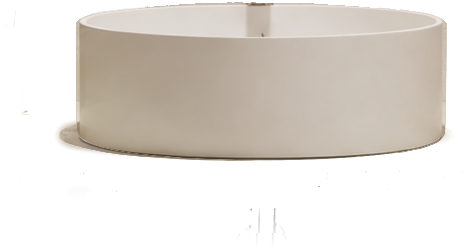
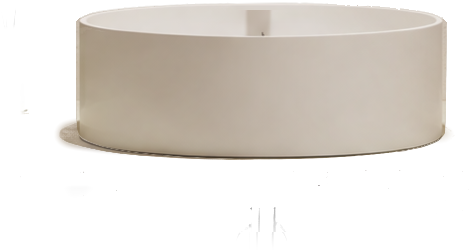
demo2: čistý lem umývadla za batériou
Hrana misy sa meria aj v pásiku za batériou; stĺpce s batériou sa
dopočítajú vo výške a ich lem (farba aj vyhladenie) sa prevezme zo
susedov. Predtým mala Savoy za batériou o 3 px vyšší okraj s pásom
steny a schodíkom a pri päte starej batérie polopriesvitný lem.

diff --git a/demo2/index.html b/demo2/index.html
@@ -124,7 +124,7 @@
   </section>
 </div>
 
-<script>/*DATA*/window.KUPELNA = {"sirka":3312,"vyska":2484,"povodny":"img/povodny.jpg","model":"gpt-image-2.5-sunburst","rozlisenie":"4K","kategorie":[{"id":"obklad","nazov":"Obklad stien","typ":"podklad","z":0,"moznosti":[{"id":"povodny","nazov":"Pôvodný obklad","kratko":"Pôvodný obklad","detail":"Svetlý kameň · podľa vizualizácie ST1","nahlad":"../demo/img/nahlad-obklad-povodny.jpg"},{"id":"obklad-calacatta","nazov":"Florim I CLASSICI Calacatta Gold","kratko":"Calacatta Gold","detail":"Florim I Classici · gres 1200 × 2400 mm","nahlad":"../demo/img/ref-obklad-calacatta-0.jpg","obrazok":"img/obklad-calacatta.jpg"},{"id":"obklad-graphit","nazov":"Florim STONE LIFE Graphit","kratko":"Stone Life Graphit","detail":"Florim Stone Life · gres 1200 × 2400 mm","nahlad":"../demo/img/ref-obklad-graphit-0.jpg","obrazok":"img/obklad-graphit.jpg"},{"id":"obklad-travertine","nazov":"Florim AUTHENTIC LUXE Gold Travertine","kratko":"Gold Travertine","detail":"Florim Authentic Luxe · gres 1200 × 2400 mm","nahlad":"../demo/img/ref-obklad-travertine-0.jpg","obrazok":"img/obklad-travertine.jpg"}]},{"id":"dlazba","nazov":"Dlažba","typ":"plocha","z":1,"moznosti":[{"id":"povodny","nazov":"Pôvodná dlažba","kratko":"Pôvodná dlažba","detail":"Svetlý kameň · podľa vizualizácie ST1","nahlad":"../demo/img/nahlad-dlazba-povodny.jpg","vrstvy":{"*":[{"src":"../demo/img/dlazba-povodny-0.png","x":104,"y":2133,"w":2214,"h":351}]}},{"id":"dlazba-graphite","nazov":"Florim STONE LIFE Graphite 600x600","kratko":"Stone Life Graphite","detail":"Florim Stone Life · mat 600 × 600 mm","nahlad":"../demo/img/ref-dlazba-graphite-0.jpg","vrstvy":{"*":[{"src":"../demo/img/dlazba-graphite-0.png","x":104,"y":2133,"w":2214,"h":351}]}},{"id":"dlazba-amani","nazov":"Florim TIMELESS Amani Grey 600x600","kratko":"Timeless Amani Grey","detail":"Florim Timeless · mat 600 × 600 mm","nahlad":"../demo/img/ref-dlazba-amani-0.jpg","vrstvy":{"*":[{"src":"../demo/img/dlazba-amani-0.png","x":109,"y":2133,"w":2209,"h":351}]}}]},{"id":"baterie","nazov":"Batérie","typ":"objekt","z":3,"moznosti":[{"id":"povodny","nazov":"Chróm (pôvodné)","kratko":"Chróm (pôvodné)","detail":"Hansgrohe chróm · podľa vizualizácie ST1","nahlad":"../demo/img/nahlad-baterie-povodny.jpg","vrstvy":{"*":[{"src":"img/baterie-povodny-0.png","x":635,"y":540,"w":401,"h":1227},{"src":"img/baterie-povodny-1.png","x":1632,"y":1440,"w":45,"h":104},{"src":"img/baterie-povodny-2.png","x":2288,"y":1445,"w":331,"h":662},{"src":"img/baterie-povodny-3.png","x":1597,"y":1706,"w":96,"h":201},{"src":"img/baterie-povodny-4.png","x":2996,"y":1912,"w":63,"h":99}]}},{"id":"baterie-black","nazov":"Hansgrohe Black matt (Pulsify S Showerpipe 260, Tecturis S 240 Fine, Ecostat Element)","kratko":"Black matt","detail":"Hansgrohe 24237670 · 73372670 · 13347670","nahlad":"../demo/img/ref-baterie-black-0.jpg","vrstvy":{"*":[{"src":"img/baterie-black-0.png","x":623,"y":530,"w":357,"h":1249},{"src":"img/baterie-black-1.png","x":1609,"y":1422,"w":119,"h":144},{"src":"img/baterie-black-2.png","x":2270,"y":1395,"w":356,"h":659},{"src":"img/baterie-black-3.png","x":1601,"y":1708,"w":109,"h":195},{"src":"img/baterie-black-4.png","x":2998,"y":1910,"w":62,"h":96}]}},{"id":"baterie-bronze","nazov":"Hansgrohe Brushed bronze (Pulsify S Showerpipe 260, Tecturis S 240 Fine, Ecostat Element)","kratko":"Brushed bronze","detail":"Hansgrohe 24237140 · 73372140 · 13347140","nahlad":"../demo/img/ref-baterie-bronze-0.jpg","vrstvy":{"*":[{"src":"img/baterie-bronze-0.png","x":623,"y":529,"w":356,"h":1247},{"src":"img/baterie-bronze-1.png","x":1609,"y":1421,"w":118,"h":145},{"src":"img/baterie-bronze-2.png","x":2269,"y":1401,"w":357,"h":654},{"src":"img/baterie-bronze-3.png","x":1610,"y":1708,"w":103,"h":193},{"src":"img/baterie-bronze-4.png","x":2999,"y":1910,"w":63,"h":96}]}}]},{"id":"umyvadlo","nazov":"Umývadlo","typ":"objekt","z":4,"moznosti":[{"id":"povodny","nazov":"Pôvodné obdĺžnikové","kratko":"Pôvodné obdĺžnikové","detail":"Na dosku · podľa vizualizácie ST1","nahlad":"../demo/img/nahlad-umyvadlo-povodny.jpg","vrstvy":{"*":[{"src":"img/umyvadlo-povodny-0.png","x":1332,"y":1509,"w":652,"h":245}]}},{"id":"umyvadlo-savoy","nazov":"Laufen Savoy 550x380 oválne","kratko":"Savoy oválne","detail":"Laufen H8129440001121 · 550 × 380 mm","nahlad":"../demo/img/ref-umyvadlo-savoy-0.jpg","vrstvy":{"*":[{"src":"img/umyvadlo-savoy-0.png","x":1371,"y":1461,"w":574,"h":297}]}},{"id":"umyvadlo-okruhle","nazov":"Laufen living SQ 380x380 okrúhle","kratko":"living SQ okrúhle","detail":"Laufen H8114350001121 · Ø 380 mm","nahlad":"../demo/img/ref-umyvadlo-okruhle-0.jpg","vrstvy":{"*":[{"src":"img/umyvadlo-okruhle-0.png","x":1393,"y":1505,"w":471,"h":252}]}}]},{"id":"zlab","nazov":"Sprchový žľab","typ":"objekt","z":2,"moznosti":[{"id":"povodny","nazov":"FlowLine Zero Nerez","kratko":"FlowLine Zero Nerez","detail":"Kaldewei FlowLine Zero · nerez","nahlad":"../demo/img/nahlad-zlab-povodny.jpg","vrstvy":{"*":[{"src":"../demo/img/zlab-povodny-0.png","x":507,"y":2139,"w":661,"h":38}]}},{"id":"zlab-grafit","nazov":"Kaldewei FlowLine Zero Grafit","kratko":"FlowLine Zero Grafit","detail":"Kaldewei FlowLine Zero · grafit","nahlad":"../demo/img/ref-zlab-grafit-0.jpg","vrstvy":{"*":[{"src":"../demo/img/zlab-grafit-0.png","x":494,"y":2130,"w":676,"h":48}]}}]}]};window.KUPELNA_A = {"sirka":3312,"vyska":2484,"povodny":"../demo/img/povodny.jpg","model":"gpt-image-2-5-flare-image-to-image","rozlisenie":"4K","kreditovZaObrazok":16,"kategorie":[{"id":"obklad","nazov":"Obklad stien","typ":"podklad","z":0,"moznosti":[{"id":"povodny","nazov":"Pôvodný obklad","kratko":"Pôvodný obklad","detail":"Svetlý kameň · podľa vizualizácie ST1","nahlad":"../demo/img/nahlad-obklad-povodny.jpg"},{"id":"obklad-calacatta","nazov":"Florim I CLASSICI Calacatta Gold","kratko":"Calacatta Gold","detail":"Florim I Classici · gres 1200 × 2400 mm","nahlad":"../demo/img/ref-obklad-calacatta-0.jpg","obrazok":"../demo/img/obklad-calacatta.jpg"},{"id":"obklad-graphit","nazov":"Florim STONE LIFE Graphit","kratko":"Stone Life Graphit","detail":"Florim Stone Life · gres 1200 × 2400 mm","nahlad":"../demo/img/ref-obklad-graphit-0.jpg","obrazok":"../demo/img/obklad-graphit.jpg"},{"id":"obklad-travertine","nazov":"Florim AUTHENTIC LUXE Gold Travertine","kratko":"Gold Travertine","detail":"Florim Authentic Luxe · gres 1200 × 2400 mm","nahlad":"../demo/img/ref-obklad-travertine-0.jpg","obrazok":"../demo/img/obklad-travertine.jpg"}]},{"id":"dlazba","nazov":"Dlažba","typ":"plocha","z":1,"moznosti":[{"id":"povodny","nazov":"Pôvodná dlažba","kratko":"Pôvodná dlažba","detail":"Svetlý kameň · podľa vizualizácie ST1","nahlad":"../demo/img/nahlad-dlazba-povodny.jpg","vrstvy":{"*":[{"src":"../demo/img/dlazba-povodny-0.png","x":104,"y":2133,"w":2214,"h":351}]}},{"id":"dlazba-graphite","nazov":"Florim STONE LIFE Graphite 600x600","kratko":"Stone Life Graphite","detail":"Florim Stone Life · mat 600 × 600 mm","nahlad":"../demo/img/ref-dlazba-graphite-0.jpg","vrstvy":{"*":[{"src":"../demo/img/dlazba-graphite-0.png","x":104,"y":2133,"w":2214,"h":351}]}},{"id":"dlazba-amani","nazov":"Florim TIMELESS Amani Grey 600x600","kratko":"Timeless Amani Grey","detail":"Florim Timeless · mat 600 × 600 mm","nahlad":"../demo/img/ref-dlazba-amani-0.jpg","vrstvy":{"*":[{"src":"../demo/img/dlazba-amani-0.png","x":109,"y":2133,"w":2209,"h":351}]}}]},{"id":"baterie","nazov":"Batérie","typ":"objekt","z":3,"moznosti":[{"id":"povodny","nazov":"Chróm (pôvodné)","kratko":"Chróm (pôvodné)","detail":"Hansgrohe chróm · podľa vizualizácie ST1","nahlad":"../demo/img/nahlad-baterie-povodny.jpg"},{"id":"baterie-black","nazov":"Hansgrohe Black matt (Pulsify S Showerpipe 260, Tecturis S 240 Fine, Ecostat Element)","kratko":"Black matt","detail":"Hansgrohe 24237670 · 73372670 · 13347670","nahlad":"../demo/img/ref-baterie-black-0.jpg","vrstvy":{"povodny":[{"src":"../demo/img/baterie-black--povodny-0.png","x":494,"y":395,"w":600,"h":1494},{"src":"../demo/img/baterie-black--povodny-1.png","x":1538,"y":1314,"w":235,"h":277},{"src":"../demo/img/baterie-black--povodny-2.png","x":2217,"y":1314,"w":500,"h":774},{"src":"../demo/img/baterie-black--povodny-3.png","x":1571,"y":1643,"w":169,"h":308},{"src":"../demo/img/baterie-black--povodny-4.png","x":2929,"y":1848,"w":202,"h":228}],"obklad-calacatta":[{"src":"../demo/img/baterie-black--obklad-calacatta-0.png","x":494,"y":395,"w":600,"h":1494},{"src":"../demo/img/baterie-black--obklad-calacatta-1.png","x":1538,"y":1314,"w":235,"h":277},{"src":"../demo/img/baterie-black--obklad-calacatta-2.png","x":2217,"y":1314,"w":500,"h":774},{"src":"../demo/img/baterie-black--obklad-calacatta-3.png","x":1571,"y":1643,"w":169,"h":308},{"src":"../demo/img/baterie-black--obklad-calacatta-4.png","x":2929,"y":1848,"w":202,"h":228}],"obklad-graphit":[{"src":"../demo/img/baterie-black--obklad-graphit-0.png","x":494,"y":395,"w":600,"h":1494},{"src":"../demo/img/baterie-black--obklad-graphit-1.png","x":1538,"y":1314,"w":235,"h":277},{"src":"../demo/img/baterie-black--obklad-graphit-2.png","x":2217,"y":1314,"w":500,"h":774},{"src":"../demo/img/baterie-black--obklad-graphit-3.png","x":1571,"y":1643,"w":169,"h":308},{"src":"../demo/img/baterie-black--obklad-graphit-4.png","x":2929,"y":1848,"w":202,"h":228}],"obklad-travertine":[{"src":"../demo/img/baterie-black--obklad-travertine-0.png","x":494,"y":395,"w":600,"h":1494},{"src":"../demo/img/baterie-black--obklad-travertine-1.png","x":1538,"y":1314,"w":235,"h":277},{"src":"../demo/img/baterie-black--obklad-travertine-2.png","x":2217,"y":1314,"w":500,"h":774},{"src":"../demo/img/baterie-black--obklad-travertine-3.png","x":1571,"y":1643,"w":169,"h":308},{"src":"../demo/img/baterie-black--obklad-travertine-4.png","x":2929,"y":1848,"w":202,"h":228}]}},{"id":"baterie-bronze","nazov":"Hansgrohe Brushed bronze (Pulsify S Showerpipe 260, Tecturis S 240 Fine, Ecostat Element)","kratko":"Brushed bronze","detail":"Hansgrohe 24237140 · 73372140 · 13347140","nahlad":"../demo/img/ref-baterie-bronze-0.jpg","vrstvy":{"povodny":[{"src":"../demo/img/baterie-bronze--povodny-0.png","x":494,"y":395,"w":600,"h":1494},{"src":"../demo/img/baterie-bronze--povodny-1.png","x":1538,"y":1314,"w":235,"h":277},{"src":"../demo/img/baterie-bronze--povodny-2.png","x":2217,"y":1314,"w":500,"h":774},{"src":"../demo/img/baterie-bronze--povodny-3.png","x":1571,"y":1643,"w":169,"h":308},{"src":"../demo/img/baterie-bronze--povodny-4.png","x":2929,"y":1848,"w":202,"h":228}],"obklad-calacatta":[{"src":"../demo/img/baterie-bronze--obklad-calacatta-0.png","x":494,"y":395,"w":600,"h":1494},{"src":"../demo/img/baterie-bronze--obklad-calacatta-1.png","x":1538,"y":1314,"w":235,"h":277},{"src":"../demo/img/baterie-bronze--obklad-calacatta-2.png","x":2217,"y":1314,"w":500,"h":774},{"src":"../demo/img/baterie-bronze--obklad-calacatta-3.png","x":1571,"y":1643,"w":169,"h":308},{"src":"../demo/img/baterie-bronze--obklad-calacatta-4.png","x":2929,"y":1848,"w":202,"h":228}],"obklad-graphit":[{"src":"../demo/img/baterie-bronze--obklad-graphit-0.png","x":494,"y":395,"w":600,"h":1494},{"src":"../demo/img/baterie-bronze--obklad-graphit-1.png","x":1538,"y":1314,"w":235,"h":277},{"src":"../demo/img/baterie-bronze--obklad-graphit-2.png","x":2217,"y":1314,"w":500,"h":774},{"src":"../demo/img/baterie-bronze--obklad-graphit-3.png","x":1571,"y":1643,"w":169,"h":308},{"src":"../demo/img/baterie-bronze--obklad-graphit-4.png","x":2929,"y":1848,"w":202,"h":228}],"obklad-travertine":[{"src":"../demo/img/baterie-bronze--obklad-travertine-0.png","x":494,"y":395,"w":600,"h":1494},{"src":"../demo/img/baterie-bronze--obklad-travertine-1.png","x":1538,"y":1314,"w":235,"h":277},{"src":"../demo/img/baterie-bronze--obklad-travertine-2.png","x":2217,"y":1314,"w":500,"h":774},{"src":"../demo/img/baterie-bronze--obklad-travertine-3.png","x":1571,"y":1643,"w":169,"h":308},{"src":"../demo/img/baterie-bronze--obklad-travertine-4.png","x":2929,"y":1848,"w":202,"h":228}]}}]},{"id":"umyvadlo","nazov":"Umývadlo","typ":"objekt","z":4,"moznosti":[{"id":"povodny","nazov":"Pôvodné obdĺžnikové","kratko":"Pôvodné obdĺžnikové","detail":"Na dosku · podľa vizualizácie ST1","nahlad":"../demo/img/nahlad-umyvadlo-povodny.jpg"},{"id":"umyvadlo-savoy","nazov":"Laufen Savoy 550x380 oválne","kratko":"Savoy oválne","detail":"Laufen H8129440001121 · 550 × 380 mm","nahlad":"../demo/img/ref-umyvadlo-savoy-0.jpg","vrstvy":{"povodny":[{"src":"../demo/img/umyvadlo-savoy--povodny-0.png","x":1322,"y":1364,"w":700,"h":376}],"obklad-calacatta":[{"src":"../demo/img/umyvadlo-savoy--obklad-calacatta-0.png","x":1322,"y":1364,"w":700,"h":376}],"obklad-graphit":[{"src":"../demo/img/umyvadlo-savoy--obklad-graphit-0.png","x":1322,"y":1364,"w":700,"h":376}],"obklad-travertine":[{"src":"../demo/img/umyvadlo-savoy--obklad-travertine-0.png","x":1322,"y":1364,"w":700,"h":376}]}},{"id":"umyvadlo-okruhle","nazov":"Laufen living SQ 380x380 okrúhle","kratko":"living SQ okrúhle","detail":"Laufen H8114350001121 · Ø 380 mm","nahlad":"../demo/img/ref-umyvadlo-okruhle-0.jpg","vrstvy":{"povodny":[{"src":"../demo/img/umyvadlo-okruhle--povodny-0.png","x":1322,"y":1364,"w":700,"h":376}],"obklad-calacatta":[{"src":"../demo/img/umyvadlo-okruhle--obklad-calacatta-0.png","x":1322,"y":1364,"w":700,"h":376}],"obklad-graphit":[{"src":"../demo/img/umyvadlo-okruhle--obklad-graphit-0.png","x":1322,"y":1364,"w":700,"h":376}],"obklad-travertine":[{"src":"../demo/img/umyvadlo-okruhle--obklad-travertine-0.png","x":1322,"y":1364,"w":700,"h":376}]}}]},{"id":"zlab","nazov":"Sprchový žľab","typ":"objekt","z":2,"moznosti":[{"id":"povodny","nazov":"FlowLine Zero Nerez","kratko":"FlowLine Zero Nerez","detail":"Kaldewei FlowLine Zero · nerez","nahlad":"../demo/img/nahlad-zlab-povodny.jpg","vrstvy":{"*":[{"src":"../demo/img/zlab-povodny-0.png","x":507,"y":2139,"w":661,"h":38}]}},{"id":"zlab-grafit","nazov":"Kaldewei FlowLine Zero Grafit","kratko":"FlowLine Zero Grafit","detail":"Kaldewei FlowLine Zero · grafit","nahlad":"../demo/img/ref-zlab-grafit-0.jpg","vrstvy":{"*":[{"src":"../demo/img/zlab-grafit-0.png","x":494,"y":2130,"w":676,"h":48}]}}]}]};/*/DATA*/</script>
+<script>/*DATA*/window.KUPELNA = {"sirka":3312,"vyska":2484,"povodny":"img/povodny.jpg","model":"gpt-image-2.5-sunburst","rozlisenie":"4K","kategorie":[{"id":"obklad","nazov":"Obklad stien","typ":"podklad","z":0,"moznosti":[{"id":"povodny","nazov":"Pôvodný obklad","kratko":"Pôvodný obklad","detail":"Svetlý kameň · podľa vizualizácie ST1","nahlad":"../demo/img/nahlad-obklad-povodny.jpg"},{"id":"obklad-calacatta","nazov":"Florim I CLASSICI Calacatta Gold","kratko":"Calacatta Gold","detail":"Florim I Classici · gres 1200 × 2400 mm","nahlad":"../demo/img/ref-obklad-calacatta-0.jpg","obrazok":"img/obklad-calacatta.jpg"},{"id":"obklad-graphit","nazov":"Florim STONE LIFE Graphit","kratko":"Stone Life Graphit","detail":"Florim Stone Life · gres 1200 × 2400 mm","nahlad":"../demo/img/ref-obklad-graphit-0.jpg","obrazok":"img/obklad-graphit.jpg"},{"id":"obklad-travertine","nazov":"Florim AUTHENTIC LUXE Gold Travertine","kratko":"Gold Travertine","detail":"Florim Authentic Luxe · gres 1200 × 2400 mm","nahlad":"../demo/img/ref-obklad-travertine-0.jpg","obrazok":"img/obklad-travertine.jpg"}]},{"id":"dlazba","nazov":"Dlažba","typ":"plocha","z":1,"moznosti":[{"id":"povodny","nazov":"Pôvodná dlažba","kratko":"Pôvodná dlažba","detail":"Svetlý kameň · podľa vizualizácie ST1","nahlad":"../demo/img/nahlad-dlazba-povodny.jpg","vrstvy":{"*":[{"src":"../demo/img/dlazba-povodny-0.png","x":104,"y":2133,"w":2214,"h":351}]}},{"id":"dlazba-graphite","nazov":"Florim STONE LIFE Graphite 600x600","kratko":"Stone Life Graphite","detail":"Florim Stone Life · mat 600 × 600 mm","nahlad":"../demo/img/ref-dlazba-graphite-0.jpg","vrstvy":{"*":[{"src":"../demo/img/dlazba-graphite-0.png","x":104,"y":2133,"w":2214,"h":351}]}},{"id":"dlazba-amani","nazov":"Florim TIMELESS Amani Grey 600x600","kratko":"Timeless Amani Grey","detail":"Florim Timeless · mat 600 × 600 mm","nahlad":"../demo/img/ref-dlazba-amani-0.jpg","vrstvy":{"*":[{"src":"../demo/img/dlazba-amani-0.png","x":109,"y":2133,"w":2209,"h":351}]}}]},{"id":"baterie","nazov":"Batérie","typ":"objekt","z":3,"moznosti":[{"id":"povodny","nazov":"Chróm (pôvodné)","kratko":"Chróm (pôvodné)","detail":"Hansgrohe chróm · podľa vizualizácie ST1","nahlad":"../demo/img/nahlad-baterie-povodny.jpg","vrstvy":{"*":[{"src":"img/baterie-povodny-0.png","x":635,"y":540,"w":401,"h":1227},{"src":"img/baterie-povodny-1.png","x":1632,"y":1440,"w":45,"h":104},{"src":"img/baterie-povodny-2.png","x":2288,"y":1445,"w":331,"h":662},{"src":"img/baterie-povodny-3.png","x":1597,"y":1706,"w":96,"h":201},{"src":"img/baterie-povodny-4.png","x":2996,"y":1912,"w":63,"h":99}]}},{"id":"baterie-black","nazov":"Hansgrohe Black matt (Pulsify S Showerpipe 260, Tecturis S 240 Fine, Ecostat Element)","kratko":"Black matt","detail":"Hansgrohe 24237670 · 73372670 · 13347670","nahlad":"../demo/img/ref-baterie-black-0.jpg","vrstvy":{"*":[{"src":"img/baterie-black-0.png","x":623,"y":530,"w":357,"h":1249},{"src":"img/baterie-black-1.png","x":1609,"y":1422,"w":119,"h":144},{"src":"img/baterie-black-2.png","x":2270,"y":1395,"w":356,"h":659},{"src":"img/baterie-black-3.png","x":1601,"y":1708,"w":109,"h":195},{"src":"img/baterie-black-4.png","x":2998,"y":1910,"w":62,"h":96}]}},{"id":"baterie-bronze","nazov":"Hansgrohe Brushed bronze (Pulsify S Showerpipe 260, Tecturis S 240 Fine, Ecostat Element)","kratko":"Brushed bronze","detail":"Hansgrohe 24237140 · 73372140 · 13347140","nahlad":"../demo/img/ref-baterie-bronze-0.jpg","vrstvy":{"*":[{"src":"img/baterie-bronze-0.png","x":623,"y":529,"w":356,"h":1247},{"src":"img/baterie-bronze-1.png","x":1609,"y":1421,"w":118,"h":145},{"src":"img/baterie-bronze-2.png","x":2269,"y":1401,"w":357,"h":654},{"src":"img/baterie-bronze-3.png","x":1610,"y":1708,"w":103,"h":193},{"src":"img/baterie-bronze-4.png","x":2999,"y":1910,"w":63,"h":96}]}}]},{"id":"umyvadlo","nazov":"Umývadlo","typ":"objekt","z":4,"moznosti":[{"id":"povodny","nazov":"Pôvodné obdĺžnikové","kratko":"Pôvodné obdĺžnikové","detail":"Na dosku · podľa vizualizácie ST1","nahlad":"../demo/img/nahlad-umyvadlo-povodny.jpg","vrstvy":{"*":[{"src":"img/umyvadlo-povodny-0.png","x":1332,"y":1509,"w":652,"h":245}]}},{"id":"umyvadlo-savoy","nazov":"Laufen Savoy 550x380 oválne","kratko":"Savoy oválne","detail":"Laufen H8129440001121 · 550 × 380 mm","nahlad":"../demo/img/ref-umyvadlo-savoy-0.jpg","vrstvy":{"*":[{"src":"img/umyvadlo-savoy-0.png","x":1371,"y":1461,"w":574,"h":297}]}},{"id":"umyvadlo-okruhle","nazov":"Laufen living SQ 380x380 okrúhle","kratko":"living SQ okrúhle","detail":"Laufen H8114350001121 · Ø 380 mm","nahlad":"../demo/img/ref-umyvadlo-okruhle-0.jpg","vrstvy":{"*":[{"src":"img/umyvadlo-okruhle-0.png","x":1393,"y":1506,"w":471,"h":251}]}}]},{"id":"zlab","nazov":"Sprchový žľab","typ":"objekt","z":2,"moznosti":[{"id":"povodny","nazov":"FlowLine Zero Nerez","kratko":"FlowLine Zero Nerez","detail":"Kaldewei FlowLine Zero · nerez","nahlad":"../demo/img/nahlad-zlab-povodny.jpg","vrstvy":{"*":[{"src":"../demo/img/zlab-povodny-0.png","x":507,"y":2139,"w":661,"h":38}]}},{"id":"zlab-grafit","nazov":"Kaldewei FlowLine Zero Grafit","kratko":"FlowLine Zero Grafit","detail":"Kaldewei FlowLine Zero · grafit","nahlad":"../demo/img/ref-zlab-grafit-0.jpg","vrstvy":{"*":[{"src":"../demo/img/zlab-grafit-0.png","x":494,"y":2130,"w":676,"h":48}]}}]}]};window.KUPELNA_A = {"sirka":3312,"vyska":2484,"povodny":"../demo/img/povodny.jpg","model":"gpt-image-2-5-flare-image-to-image","rozlisenie":"4K","kreditovZaObrazok":16,"kategorie":[{"id":"obklad","nazov":"Obklad stien","typ":"podklad","z":0,"moznosti":[{"id":"povodny","nazov":"Pôvodný obklad","kratko":"Pôvodný obklad","detail":"Svetlý kameň · podľa vizualizácie ST1","nahlad":"../demo/img/nahlad-obklad-povodny.jpg"},{"id":"obklad-calacatta","nazov":"Florim I CLASSICI Calacatta Gold","kratko":"Calacatta Gold","detail":"Florim I Classici · gres 1200 × 2400 mm","nahlad":"../demo/img/ref-obklad-calacatta-0.jpg","obrazok":"../demo/img/obklad-calacatta.jpg"},{"id":"obklad-graphit","nazov":"Florim STONE LIFE Graphit","kratko":"Stone Life Graphit","detail":"Florim Stone Life · gres 1200 × 2400 mm","nahlad":"../demo/img/ref-obklad-graphit-0.jpg","obrazok":"../demo/img/obklad-graphit.jpg"},{"id":"obklad-travertine","nazov":"Florim AUTHENTIC LUXE Gold Travertine","kratko":"Gold Travertine","detail":"Florim Authentic Luxe · gres 1200 × 2400 mm","nahlad":"../demo/img/ref-obklad-travertine-0.jpg","obrazok":"../demo/img/obklad-travertine.jpg"}]},{"id":"dlazba","nazov":"Dlažba","typ":"plocha","z":1,"moznosti":[{"id":"povodny","nazov":"Pôvodná dlažba","kratko":"Pôvodná dlažba","detail":"Svetlý kameň · podľa vizualizácie ST1","nahlad":"../demo/img/nahlad-dlazba-povodny.jpg","vrstvy":{"*":[{"src":"../demo/img/dlazba-povodny-0.png","x":104,"y":2133,"w":2214,"h":351}]}},{"id":"dlazba-graphite","nazov":"Florim STONE LIFE Graphite 600x600","kratko":"Stone Life Graphite","detail":"Florim Stone Life · mat 600 × 600 mm","nahlad":"../demo/img/ref-dlazba-graphite-0.jpg","vrstvy":{"*":[{"src":"../demo/img/dlazba-graphite-0.png","x":104,"y":2133,"w":2214,"h":351}]}},{"id":"dlazba-amani","nazov":"Florim TIMELESS Amani Grey 600x600","kratko":"Timeless Amani Grey","detail":"Florim Timeless · mat 600 × 600 mm","nahlad":"../demo/img/ref-dlazba-amani-0.jpg","vrstvy":{"*":[{"src":"../demo/img/dlazba-amani-0.png","x":109,"y":2133,"w":2209,"h":351}]}}]},{"id":"baterie","nazov":"Batérie","typ":"objekt","z":3,"moznosti":[{"id":"povodny","nazov":"Chróm (pôvodné)","kratko":"Chróm (pôvodné)","detail":"Hansgrohe chróm · podľa vizualizácie ST1","nahlad":"../demo/img/nahlad-baterie-povodny.jpg"},{"id":"baterie-black","nazov":"Hansgrohe Black matt (Pulsify S Showerpipe 260, Tecturis S 240 Fine, Ecostat Element)","kratko":"Black matt","detail":"Hansgrohe 24237670 · 73372670 · 13347670","nahlad":"../demo/img/ref-baterie-black-0.jpg","vrstvy":{"povodny":[{"src":"../demo/img/baterie-black--povodny-0.png","x":494,"y":395,"w":600,"h":1494},{"src":"../demo/img/baterie-black--povodny-1.png","x":1538,"y":1314,"w":235,"h":277},{"src":"../demo/img/baterie-black--povodny-2.png","x":2217,"y":1314,"w":500,"h":774},{"src":"../demo/img/baterie-black--povodny-3.png","x":1571,"y":1643,"w":169,"h":308},{"src":"../demo/img/baterie-black--povodny-4.png","x":2929,"y":1848,"w":202,"h":228}],"obklad-calacatta":[{"src":"../demo/img/baterie-black--obklad-calacatta-0.png","x":494,"y":395,"w":600,"h":1494},{"src":"../demo/img/baterie-black--obklad-calacatta-1.png","x":1538,"y":1314,"w":235,"h":277},{"src":"../demo/img/baterie-black--obklad-calacatta-2.png","x":2217,"y":1314,"w":500,"h":774},{"src":"../demo/img/baterie-black--obklad-calacatta-3.png","x":1571,"y":1643,"w":169,"h":308},{"src":"../demo/img/baterie-black--obklad-calacatta-4.png","x":2929,"y":1848,"w":202,"h":228}],"obklad-graphit":[{"src":"../demo/img/baterie-black--obklad-graphit-0.png","x":494,"y":395,"w":600,"h":1494},{"src":"../demo/img/baterie-black--obklad-graphit-1.png","x":1538,"y":1314,"w":235,"h":277},{"src":"../demo/img/baterie-black--obklad-graphit-2.png","x":2217,"y":1314,"w":500,"h":774},{"src":"../demo/img/baterie-black--obklad-graphit-3.png","x":1571,"y":1643,"w":169,"h":308},{"src":"../demo/img/baterie-black--obklad-graphit-4.png","x":2929,"y":1848,"w":202,"h":228}],"obklad-travertine":[{"src":"../demo/img/baterie-black--obklad-travertine-0.png","x":494,"y":395,"w":600,"h":1494},{"src":"../demo/img/baterie-black--obklad-travertine-1.png","x":1538,"y":1314,"w":235,"h":277},{"src":"../demo/img/baterie-black--obklad-travertine-2.png","x":2217,"y":1314,"w":500,"h":774},{"src":"../demo/img/baterie-black--obklad-travertine-3.png","x":1571,"y":1643,"w":169,"h":308},{"src":"../demo/img/baterie-black--obklad-travertine-4.png","x":2929,"y":1848,"w":202,"h":228}]}},{"id":"baterie-bronze","nazov":"Hansgrohe Brushed bronze (Pulsify S Showerpipe 260, Tecturis S 240 Fine, Ecostat Element)","kratko":"Brushed bronze","detail":"Hansgrohe 24237140 · 73372140 · 13347140","nahlad":"../demo/img/ref-baterie-bronze-0.jpg","vrstvy":{"povodny":[{"src":"../demo/img/baterie-bronze--povodny-0.png","x":494,"y":395,"w":600,"h":1494},{"src":"../demo/img/baterie-bronze--povodny-1.png","x":1538,"y":1314,"w":235,"h":277},{"src":"../demo/img/baterie-bronze--povodny-2.png","x":2217,"y":1314,"w":500,"h":774},{"src":"../demo/img/baterie-bronze--povodny-3.png","x":1571,"y":1643,"w":169,"h":308},{"src":"../demo/img/baterie-bronze--povodny-4.png","x":2929,"y":1848,"w":202,"h":228}],"obklad-calacatta":[{"src":"../demo/img/baterie-bronze--obklad-calacatta-0.png","x":494,"y":395,"w":600,"h":1494},{"src":"../demo/img/baterie-bronze--obklad-calacatta-1.png","x":1538,"y":1314,"w":235,"h":277},{"src":"../demo/img/baterie-bronze--obklad-calacatta-2.png","x":2217,"y":1314,"w":500,"h":774},{"src":"../demo/img/baterie-bronze--obklad-calacatta-3.png","x":1571,"y":1643,"w":169,"h":308},{"src":"../demo/img/baterie-bronze--obklad-calacatta-4.png","x":2929,"y":1848,"w":202,"h":228}],"obklad-graphit":[{"src":"../demo/img/baterie-bronze--obklad-graphit-0.png","x":494,"y":395,"w":600,"h":1494},{"src":"../demo/img/baterie-bronze--obklad-graphit-1.png","x":1538,"y":1314,"w":235,"h":277},{"src":"../demo/img/baterie-bronze--obklad-graphit-2.png","x":2217,"y":1314,"w":500,"h":774},{"src":"../demo/img/baterie-bronze--obklad-graphit-3.png","x":1571,"y":1643,"w":169,"h":308},{"src":"../demo/img/baterie-bronze--obklad-graphit-4.png","x":2929,"y":1848,"w":202,"h":228}],"obklad-travertine":[{"src":"../demo/img/baterie-bronze--obklad-travertine-0.png","x":494,"y":395,"w":600,"h":1494},{"src":"../demo/img/baterie-bronze--obklad-travertine-1.png","x":1538,"y":1314,"w":235,"h":277},{"src":"../demo/img/baterie-bronze--obklad-travertine-2.png","x":2217,"y":1314,"w":500,"h":774},{"src":"../demo/img/baterie-bronze--obklad-travertine-3.png","x":1571,"y":1643,"w":169,"h":308},{"src":"../demo/img/baterie-bronze--obklad-travertine-4.png","x":2929,"y":1848,"w":202,"h":228}]}}]},{"id":"umyvadlo","nazov":"Umývadlo","typ":"objekt","z":4,"moznosti":[{"id":"povodny","nazov":"Pôvodné obdĺžnikové","kratko":"Pôvodné obdĺžnikové","detail":"Na dosku · podľa vizualizácie ST1","nahlad":"../demo/img/nahlad-umyvadlo-povodny.jpg"},{"id":"umyvadlo-savoy","nazov":"Laufen Savoy 550x380 oválne","kratko":"Savoy oválne","detail":"Laufen H8129440001121 · 550 × 380 mm","nahlad":"../demo/img/ref-umyvadlo-savoy-0.jpg","vrstvy":{"povodny":[{"src":"../demo/img/umyvadlo-savoy--povodny-0.png","x":1322,"y":1364,"w":700,"h":376}],"obklad-calacatta":[{"src":"../demo/img/umyvadlo-savoy--obklad-calacatta-0.png","x":1322,"y":1364,"w":700,"h":376}],"obklad-graphit":[{"src":"../demo/img/umyvadlo-savoy--obklad-graphit-0.png","x":1322,"y":1364,"w":700,"h":376}],"obklad-travertine":[{"src":"../demo/img/umyvadlo-savoy--obklad-travertine-0.png","x":1322,"y":1364,"w":700,"h":376}]}},{"id":"umyvadlo-okruhle","nazov":"Laufen living SQ 380x380 okrúhle","kratko":"living SQ okrúhle","detail":"Laufen H8114350001121 · Ø 380 mm","nahlad":"../demo/img/ref-umyvadlo-okruhle-0.jpg","vrstvy":{"povodny":[{"src":"../demo/img/umyvadlo-okruhle--povodny-0.png","x":1322,"y":1364,"w":700,"h":376}],"obklad-calacatta":[{"src":"../demo/img/umyvadlo-okruhle--obklad-calacatta-0.png","x":1322,"y":1364,"w":700,"h":376}],"obklad-graphit":[{"src":"../demo/img/umyvadlo-okruhle--obklad-graphit-0.png","x":1322,"y":1364,"w":700,"h":376}],"obklad-travertine":[{"src":"../demo/img/umyvadlo-okruhle--obklad-travertine-0.png","x":1322,"y":1364,"w":700,"h":376}]}}]},{"id":"zlab","nazov":"Sprchový žľab","typ":"objekt","z":2,"moznosti":[{"id":"povodny","nazov":"FlowLine Zero Nerez","kratko":"FlowLine Zero Nerez","detail":"Kaldewei FlowLine Zero · nerez","nahlad":"../demo/img/nahlad-zlab-povodny.jpg","vrstvy":{"*":[{"src":"../demo/img/zlab-povodny-0.png","x":507,"y":2139,"w":661,"h":38}]}},{"id":"zlab-grafit","nazov":"Kaldewei FlowLine Zero Grafit","kratko":"FlowLine Zero Grafit","detail":"Kaldewei FlowLine Zero · grafit","nahlad":"../demo/img/ref-zlab-grafit-0.jpg","vrstvy":{"*":[{"src":"../demo/img/zlab-grafit-0.png","x":494,"y":2130,"w":676,"h":48}]}}]}]};/*/DATA*/</script>
 <script>
 (function () {
   const SETS = { B: window.KUPELNA, A: window.KUPELNA_A };

diff --git a/demo/obrazky.cs b/demo/obrazky.cs
@@ -829,15 +829,23 @@ public static class Vrstva
     // little lower) with its top at the object's top edge in img: in every column, from just
     // below the wall above the key's top edge (the rows gap..2 gap above it) down, the first row
     // where img differs from that wall (max channel over prah), at most max rows below the key's
-    // top. The edge of a column is the median of the measured columns within okno pixels; columns
-    // [skip0, skip1) (a tap behind the object: no wall above it) and those without a measured
-    // neighbour are interpolated between the nearest edges on either side. Rows above the edge
+    // top. In columns [skip0, skip1) a tap may stand behind the object: a column there counts only
+    // if what is above the key's top has the colour of the wall on either side (within prah of
+    // the mean wall okno pixels beside the span, interpolated). The edge of a column is the median
+    // of the counted columns within okno pixels; the others are interpolated in height between
+    // the nearest edges on either side (interpolating the distance below the key's top put
+    // Savoy's rim behind the tap 3 px too high, with a strip of wall), and their gap rows from
+    // the edge down are solid. Rows above the edge
     // are cut off, rows between it and a lower key filled. Where the column's wall is known, the
     // edge's row and the one above it get the opacity of their colour between that wall and the
     // rim (the most different of the three rows from the edge down): anti-aliasing, and a column
     // whose edge is a pixel off the median gets it back. The median distance of the edge below
     // the key's top goes to presah.
-    public static float[] OrezKluc(Obr img, float[] key, int w, int h, int max, int gap, float prah, int skip0, int skip1, int okno, out int presah)
+    // In oprav (or null), the object's colour in those rows of the tap's columns (and gap columns
+    // beside them), with the edge's anti-aliasing, is interpolated from the columns on either side
+    // at the same depth below the edge: the old tap's dark foot on the rim stuck out beside a new
+    // tap standing a few pixels elsewhere.
+    public static float[] OrezKluc(Obr img, float[] key, int w, int h, int max, int gap, float prah, int skip0, int skip1, int okno, Obr oprav, out int presah)
     {
         const int NIC = int.MinValue;
         var top = new int[w];
@@ -852,23 +860,59 @@ public static class Vrstva
             e[x] = NIC;
             for (int y = 0; y < h; y++) if (key[y * w + x] > 0.5f) { top[x] = y; break; }
             int yk = top[x];
-            if (yk < 2 * gap || (x >= skip0 && x < skip1)) continue;
+            if (yk < 2 * gap) continue;
             float r = 0, g = 0, b = 0;
             for (int y = yk - 2 * gap; y < yk - gap; y++) { int i = y * w + x; r += img.R[i]; g += img.G[i]; b += img.B[i]; }
             r /= gap; g /= gap; b /= gap;
             wr[x] = r; wg[x] = g; wb[x] = b; wall[x] = true;
+            if (x >= skip0 && x < skip1) continue;   // measured once checked below
             for (int y = yk - gap + 1; y <= Math.Min(h - 1, yk + max); y++)
             {
                 int i = y * w + x;
                 if (Math.Max(Math.Abs(img.R[i] - r), Math.Max(Math.Abs(img.G[i] - g), Math.Abs(img.B[i] - b))) > prah) { e[x] = y - yk; break; }
             }
         }
+        if (skip1 > skip0)
+        {
+            // The wall beside the span; columns inside whose wall is another colour (the tap).
+            var side = new double[6];
+            int nl = 0, nr = 0;
+            for (int x = Math.Max(0, skip0 - okno); x < Math.Min(w, skip1 + okno); x++)
+            {
+                if ((x >= skip0 && x < skip1) || !wall[x]) continue;
+                int k = x < skip0 ? 0 : 3;
+                side[k] += wr[x]; side[k + 1] += wg[x]; side[k + 2] += wb[x];
+                if (x < skip0) nl++; else nr++;
+            }
+            for (int x = skip0; x < Math.Min(w, skip1); x++)
+            {
+                if (!wall[x]) continue;
+                if (nl == 0 || nr == 0) { wall[x] = false; continue; }
+                double t = (x - skip0 + 0.5) / (skip1 - skip0);
+                double sr = side[0] / nl + (side[3] / nr - side[0] / nl) * t, sg = side[1] / nl + (side[4] / nr - side[1] / nl) * t, sb = side[2] / nl + (side[5] / nr - side[2] / nl) * t;
+                if (Math.Max(Math.Abs(wr[x] - sr), Math.Max(Math.Abs(wg[x] - sg), Math.Abs(wb[x] - sb))) > prah) { wall[x] = false; continue; }
+                int yk = top[x];
+                for (int y = yk - gap + 1; y <= Math.Min(h - 1, yk + max); y++)
+                {
+                    int i = y * w + x;
+                    if (Math.Max(Math.Abs(img.R[i] - wr[x]), Math.Max(Math.Abs(img.G[i] - wg[x]), Math.Abs(img.B[i] - wb[x]))) > prah) { e[x] = y - yk; break; }
+                }
+            }
+        }
+        // The tap's columns, and gap columns beside them (the old tap's dark foot on the rim).
+        var tap = new bool[w];
+        for (int x = skip0; x < Math.Min(w, skip1); x++)
+        {
+            if (wall[x] || top[x] < 0) continue;
+            for (int j = Math.Max(0, x - gap); j <= Math.Min(w - 1, x + gap); j++) tap[j] = true;
+        }
+        for (int x = 0; x < w; x++) if (tap[x]) { e[x] = NIC; wall[x] = false; }
         var es = new float[w];
         var all = new System.Collections.Generic.List<int>();
         for (int x = 0; x < w; x++)
         {
             es[x] = float.NaN;
-            if (top[x] < 0) continue;
+            if (top[x] < 0 || tap[x]) continue;   // the tap's columns: interpolated
             var win = new System.Collections.Generic.List<int>();
             for (int j = Math.Max(0, x - okno); j <= Math.Min(w - 1, x + okno); j++) if (e[j] != NIC) win.Add(e[j]);
             if (win.Count == 0) continue;
@@ -884,19 +928,34 @@ public static class Vrstva
             int l = x - 1, rr = x + 1;
             while (l >= 0 && float.IsNaN(es[l])) l--;
             while (rr < w && float.IsNaN(es[rr])) rr++;
-            if (l >= 0 && rr < w) es[x] = es[l] + (es[rr] - es[l]) * (x - l) / (float)(rr - l);
-            else if (l >= 0) es[x] = es[l];
-            else if (rr < w) es[x] = es[rr];
+            if (l >= 0 && rr < w)
+            {
+                float yl = top[l] + es[l], yr = top[rr] + es[rr];
+                es[x] = yl + (yr - yl) * (x - l) / (float)(rr - l) - top[x];
+            }
+            else if (l >= 0) es[x] = top[l] + es[l] - top[x];
+            else if (rr < w) es[x] = top[rr] + es[rr] - top[x];
             else es[x] = 0;
         }
         var o = (float[])key.Clone();
+        var edge = new int[w];
         for (int x = 0; x < w; x++)
         {
+            edge[x] = -1;
             if (top[x] < 0) continue;
             int y0 = top[x];
             while (y0 > 0 && key[(y0 - 1) * w + x] > 0) y0--;   // the soft edge above the top
             int y1 = Math.Max(1, top[x] + (int)Math.Round(es[x]));
+            edge[x] = y1;
             for (int y = Math.Min(y0, y1); y < Math.Max(top[x], y1); y++) o[y * w + x] = y < y1 ? 0f : 1f;
+            if (tap[x])
+            {
+                // The tap's column: the model paints the key only partly over the old tap's foot,
+                // the rim there was translucent (the new tap's shadow showed through as grey).
+                for (int y = y1; y < Math.Min(h, y1 + gap); y++) o[y * w + x] = 1f;
+                edge[x] = -2;
+                continue;
+            }
             if (!wall[x]) continue;
             float dr = 0, dg = 0, db = 0, best = 0;
             for (int y = y1; y <= Math.Min(h - 1, y1 + 2); y++)
@@ -912,6 +971,28 @@ public static class Vrstva
                 int i = y * w + x;
                 float pr = ((img.R[i] - wr[x]) * dr + (img.G[i] - wg[x]) * dg + (img.B[i] - wb[x]) * db) / d2;
                 o[i] = Math.Min(1f, Math.Max(0f, pr));
+            }
+        }
+        if (oprav != null)
+        {
+            for (int x = 0; x < w; x++)
+            {
+                if (edge[x] != -2) continue;
+                int l = x - 1, r = x + 1;
+                while (l >= 0 && edge[l] == -2) l--;
+                while (r < w && edge[r] == -2) r++;
+                if (l < 0 || r >= w || edge[l] < 0 || edge[r] < 0) continue;
+                int y1 = Math.Max(1, top[x] + (int)Math.Round(es[x]));
+                float t = (x - l) / (float)(r - l);
+                for (int d = -1; d < gap; d++)   // from the row of the edge's anti-aliasing above it
+                {
+                    if (y1 + d >= h || edge[l] + d >= h || edge[r] + d >= h) break;
+                    int i = (y1 + d) * w + x, il = (edge[l] + d) * w + l, ir = (edge[r] + d) * w + r;
+                    oprav.R[i] = oprav.R[il] + (oprav.R[ir] - oprav.R[il]) * t;
+                    oprav.G[i] = oprav.G[il] + (oprav.G[ir] - oprav.G[il]) * t;
+                    oprav.B[i] = oprav.B[il] + (oprav.B[ir] - oprav.B[il]) * t;
+                    if (d <= 0) o[i] = o[il] + (o[ir] - o[il]) * t;
+                }
             }
         }
         return o;

diff --git a/CLAUDE.md b/CLAUDE.md
@@ -65,7 +65,7 @@ Pilot z 15. 10. 2026 pre Florian (celý katalóg FLR, ~65 obkladov): doterajší
 - `prazdna-scena` = pôvodná vizualizácia bez batérií, umývadla, sifónu, prepadu a doplnkov. Vstup: pôvodná s vloženými `prazdne-baterie` a `prazdne-doplnky` (doplnky podľa `Get-Accessories`, aj so sklom z kľúča), AI odstráni zvyšok (1× 4K).
 - Obklad = 1 generácia na prázdnej scéne (`prazdna-scena@<obklad>`, `promptObklad`, 2K), aj s novým obkladom v odraze zrkadla. Nič na polici nepribudne.
 - Každý produkt (aj pôvodný chróm a pôvodné umývadlo) je JEDNA vrstva zo svojej generácie, rovnaká na všetkých obkladoch. `zostav2.ps1` → `New-Layer`:
-  - obrys z **zeleného kľúča**: pôvodné batérie `kluc-baterie`, varianty batérií `<variant>#kluc` (`promptKluc.baterie`), umývadlá ako doteraz `#kluc`/`kluc-umyvadlo`. Pri umývadle je vrstva priamo kľúč (boky a spodok kreslí model presne), len jeho vrch sa v každom stĺpci posunie na hornú hranu misy (`Vrstva.OrezKluc`: prvý riadok od steny nad vrchom kľúča, ktorý sa od nej líši o viac ako 12; medián stĺpcov ±23 px; kľúč siaha nad misu, pôvodné ~16 px, okrúhle ~5, alebo je o pixel nižšie, Savoy). Riadok hrany a riadok nad ňou dostanú opacitu podľa farby medzi stenou a lemom misy (vyhladenie). Pevný orez 18 px zobral Savoy zadnú hranu a vnútro misy. Projekcia medzi stenou a farbou misy (ako pri batériách) pri umývadle nejde: okrúhla misa má pri zadnej hrane skoro farbu steny (svetlý je len 2 px lem), hranu zrezala o 5 px; pod misou odhad steny zmiešal policu s jej tmavou prednou hranou a zobral osvetlenú hranu police ako misu. Kovový výpust model nenatrie, je to diera v kľúči (`Vrstva.Diery`), inak bol priesvitný. Rozdiel okolo kľúča sa nepridáva, pridával pod misu svetlú linku. Stĺpec batérie nad okrajom misy nepatrí k vrstve, samotná misa (kľúč) áno. Okraj sa totiž hľadá vedľa stĺpca, kde je okrúhla hrana nižšia. Bez kľúča to nejde: chróm v tieni pod policou má tón steny a stena generácie variantu je inak tónovaná (bronz ružový pod policou, čierna oranžová), rozdiel voči `prazdne-baterie` ani voči prázdnej scéne predmet spoľahlivo nenájde;
+  - obrys z **zeleného kľúča**: pôvodné batérie `kluc-baterie`, varianty batérií `<variant>#kluc` (`promptKluc.baterie`), umývadlá ako doteraz `#kluc`/`kluc-umyvadlo`. Pri umývadle je vrstva priamo kľúč (boky a spodok kreslí model presne), len jeho vrch sa v každom stĺpci posunie na hornú hranu misy (`Vrstva.OrezKluc`: prvý riadok od steny nad vrchom kľúča, ktorý sa od nej líši o viac ako 12; medián stĺpcov ±23 px; kľúč siaha nad misu, pôvodné ~16 px, okrúhle ~5, alebo je o pixel nižšie, Savoy). Riadok hrany a riadok nad ňou dostanú opacitu podľa farby medzi stenou a lemom misy (vyhladenie). V pásiku `stlpec` (za misou batéria) sa hrana meria tiež, ale stĺpce, kde nad kľúčom nie je farba steny z bokov pásika (batéria), a 3 px vedľa nich sa dopočítajú lineárne vo výške zo susedov. Ich lem misy (farba aj vyhladenie) sa prevezme zo susedných stĺpcov v rovnakej hĺbke pod hranou: generácia tam má tmavú pätu pôvodnej chrómovej batérie a kľúč natretý len čiastočne. Predtým sa celý pásik dopočítal ako vzdialenosť od vrchu kľúča a Savoy mala za batériou o 3 px vyšší okraj s pásom steny a schodíkom, na Graphite béžový pruh pod batériou. Pevný orez 18 px zobral Savoy zadnú hranu a vnútro misy. Projekcia medzi stenou a farbou misy (ako pri batériách) pri umývadle nejde: okrúhla misa má pri zadnej hrane skoro farbu steny (svetlý je len 2 px lem), hranu zrezala o 5 px; pod misou odhad steny zmiešal policu s jej tmavou prednou hranou a zobral osvetlenú hranu police ako misu. Kovový výpust model nenatrie, je to diera v kľúči (`Vrstva.Diery`), inak bol priesvitný. Rozdiel okolo kľúča sa nepridáva, pridával pod misu svetlú linku. Stĺpec batérie nad okrajom misy nepatrí k vrstve, samotná misa (kľúč) áno. Okraj sa totiž hľadá vedľa stĺpca, kde je okrúhla hrana nižšia. Bez kľúča to nejde: chróm v tieni pod policou má tón steny a stena generácie variantu je inak tónovaná (bronz ružový pod policou, čierna oranžová), rozdiel voči `prazdne-baterie` ani voči prázdnej scéne predmet spoľahlivo nenájde;
   - stena za predmetom sa odhaduje z **tej istej generácie** (vážené rozmazanie, najprv veľký polomer, potom pixely zhodné so stenou alebo s prázdnou scénou s toleranciou ±9 px, pretože hrany, okraj vane a škáry sú v inej generácii o pár px inde);
   - opacita okraja = projekcia pixelu medzi stenu a farbu predmetu (`Vrstva.Alfa`), farba okraja pod alfou 0,6 = farba predmetu (extrapolácia dávala hnedú auru), istý predmet len so zhodnou farbou (tmavý kontaktný tieň od AI ostane polopriesvitný);
   - tieň = stmavenie do `tien` px, ako pixely s alfou v tej istej PNG (`Vrstva.Zloz`):

diff --git a/PRAVIDLA.md b/PRAVIDLA.md
@@ -99,6 +99,7 @@ Porovnať výsledok s pôvodnou vizualizáciou vo výrezoch 1:1, nie v celom obr
 | demo2: svetlá linka pod umývadlom | rozmazanie pri výpočte tieňa roztieklo tmavý okraj misy na policu | tieň z rozmazania bez pixelov predmetu |
 | **demo2: umývadlá bez zadnej hrany a vnútra misy, pod misou svetlá linka bez tieňa, chýbajúce tyčinky difuzéra a svetlé fľaky pri váze** (používateľ 15. 10., Savoy + bronz na pôvodnom obklade) | Mis: pevný orez vrchu kľúča 18 px (kľúč Savoy sedí presne), rez stĺpca batérie aj cez misu. Tieň: odhad z vlastnej generácie na úzkej polici; kontaktná čiara rozmazaná na 9 px; `$r` v `New-Layer` prekryl `$R`, takže dosah bol 2 px. Doplnky: na pôvodnom obklade celé okolie doplnkov z prázdnej scény, tyčinky v maske nie sú. Kontrola po demo2 pozerala len celé výrezy, nie zväčšenú misu a doplnky. | Orez kľúča meraný po stĺpcoch (`OrezKluc`). Tieň umývadiel voči prázdnej scéne (`tienZoSceny`), ostrý kontaktný tieň a správny dosah. Pôvodný obklad nechá okolo doplnkov fotku. Tyčinky podľa farby (`tenke`). Kontrola: zväčšená misa (vrch aj spodok) a doplnky na každom obklade. |
 | **demo2 po prvej oprave: šedý tieň umývadla, zubatá a miestami zrezaná horná hrana, priesvitný výpust** (používateľ 15. 10., Savoy + bronz a okrúhle + čierna na pôvodnom obklade) | Tieň bol čierny s alfou: béžová polica stmavená rovnomerne vo všetkých kanáloch je sivá, nie hnedá. Kontaktný pás pod misou (3 px) rozmazanie rozriedilo pod prah. Horná hrana: orez kľúča po celých riadkoch, medián stĺpcov (schody), na okrúhlej mise ho projekcia stena–misa zrezala o 5 px (misa má pri zadnej hrane farbu steny), pod misou odhad steny zmiešal policu s prednou hranou. Výpust: kovový, v kľúči tmavozelená diera. Porovnanie s generáciou bez lokálneho posunu kategórie ukazovalo falošný posun o 1–2 px. | Farebný tieň na polici (`farebnyTien`), kontaktný tieň bez rozmazania. Vrstva umývadla = kľúč s vrchom posunutým na nameranú hranu (`OrezKluc` aj nad kľúč, vyhladenie podľa farby lemu), bez projekcie. Diery v kľúči sa zaplnia (`Diery`). Kontrola: zväčšený vrch, spodok a výpust každej misy voči generácii zarovnanej s `$kat`, aj na Graphite. |
+| **demo2: Savoy „má vadu pri umývadlovej batérii“** (používateľ 15. 10., bronz aj čierna) | V pásiku za batériou (`stlpec`) sa hrana misy nemerala, dopočítala sa ako vzdialenosť od vrchu kľúča: o 3 px vyššie ako lem, tvrdý okraj so schodíkom a pásom steny z generácie (na Graphite béžový). Pod pätou pôvodnej chrómovej batérie je kľúč natretý len čiastočne (lem polopriesvitný, presvital tieň novej batérie) a lem má tmavú pätu starej batérie. | Hrana sa meria aj v pásiku, stĺpce s batériou (+3 px) sa dopočítajú vo výške a ich lem sa prevezme zo susedov. Kontrola: zväčšená päta batérie pri každom umývadle s každou batériou, aj na Graphite. |
 
 ## 6. Zámerné rozhodnutia (nemeniť bez dohody)
 
